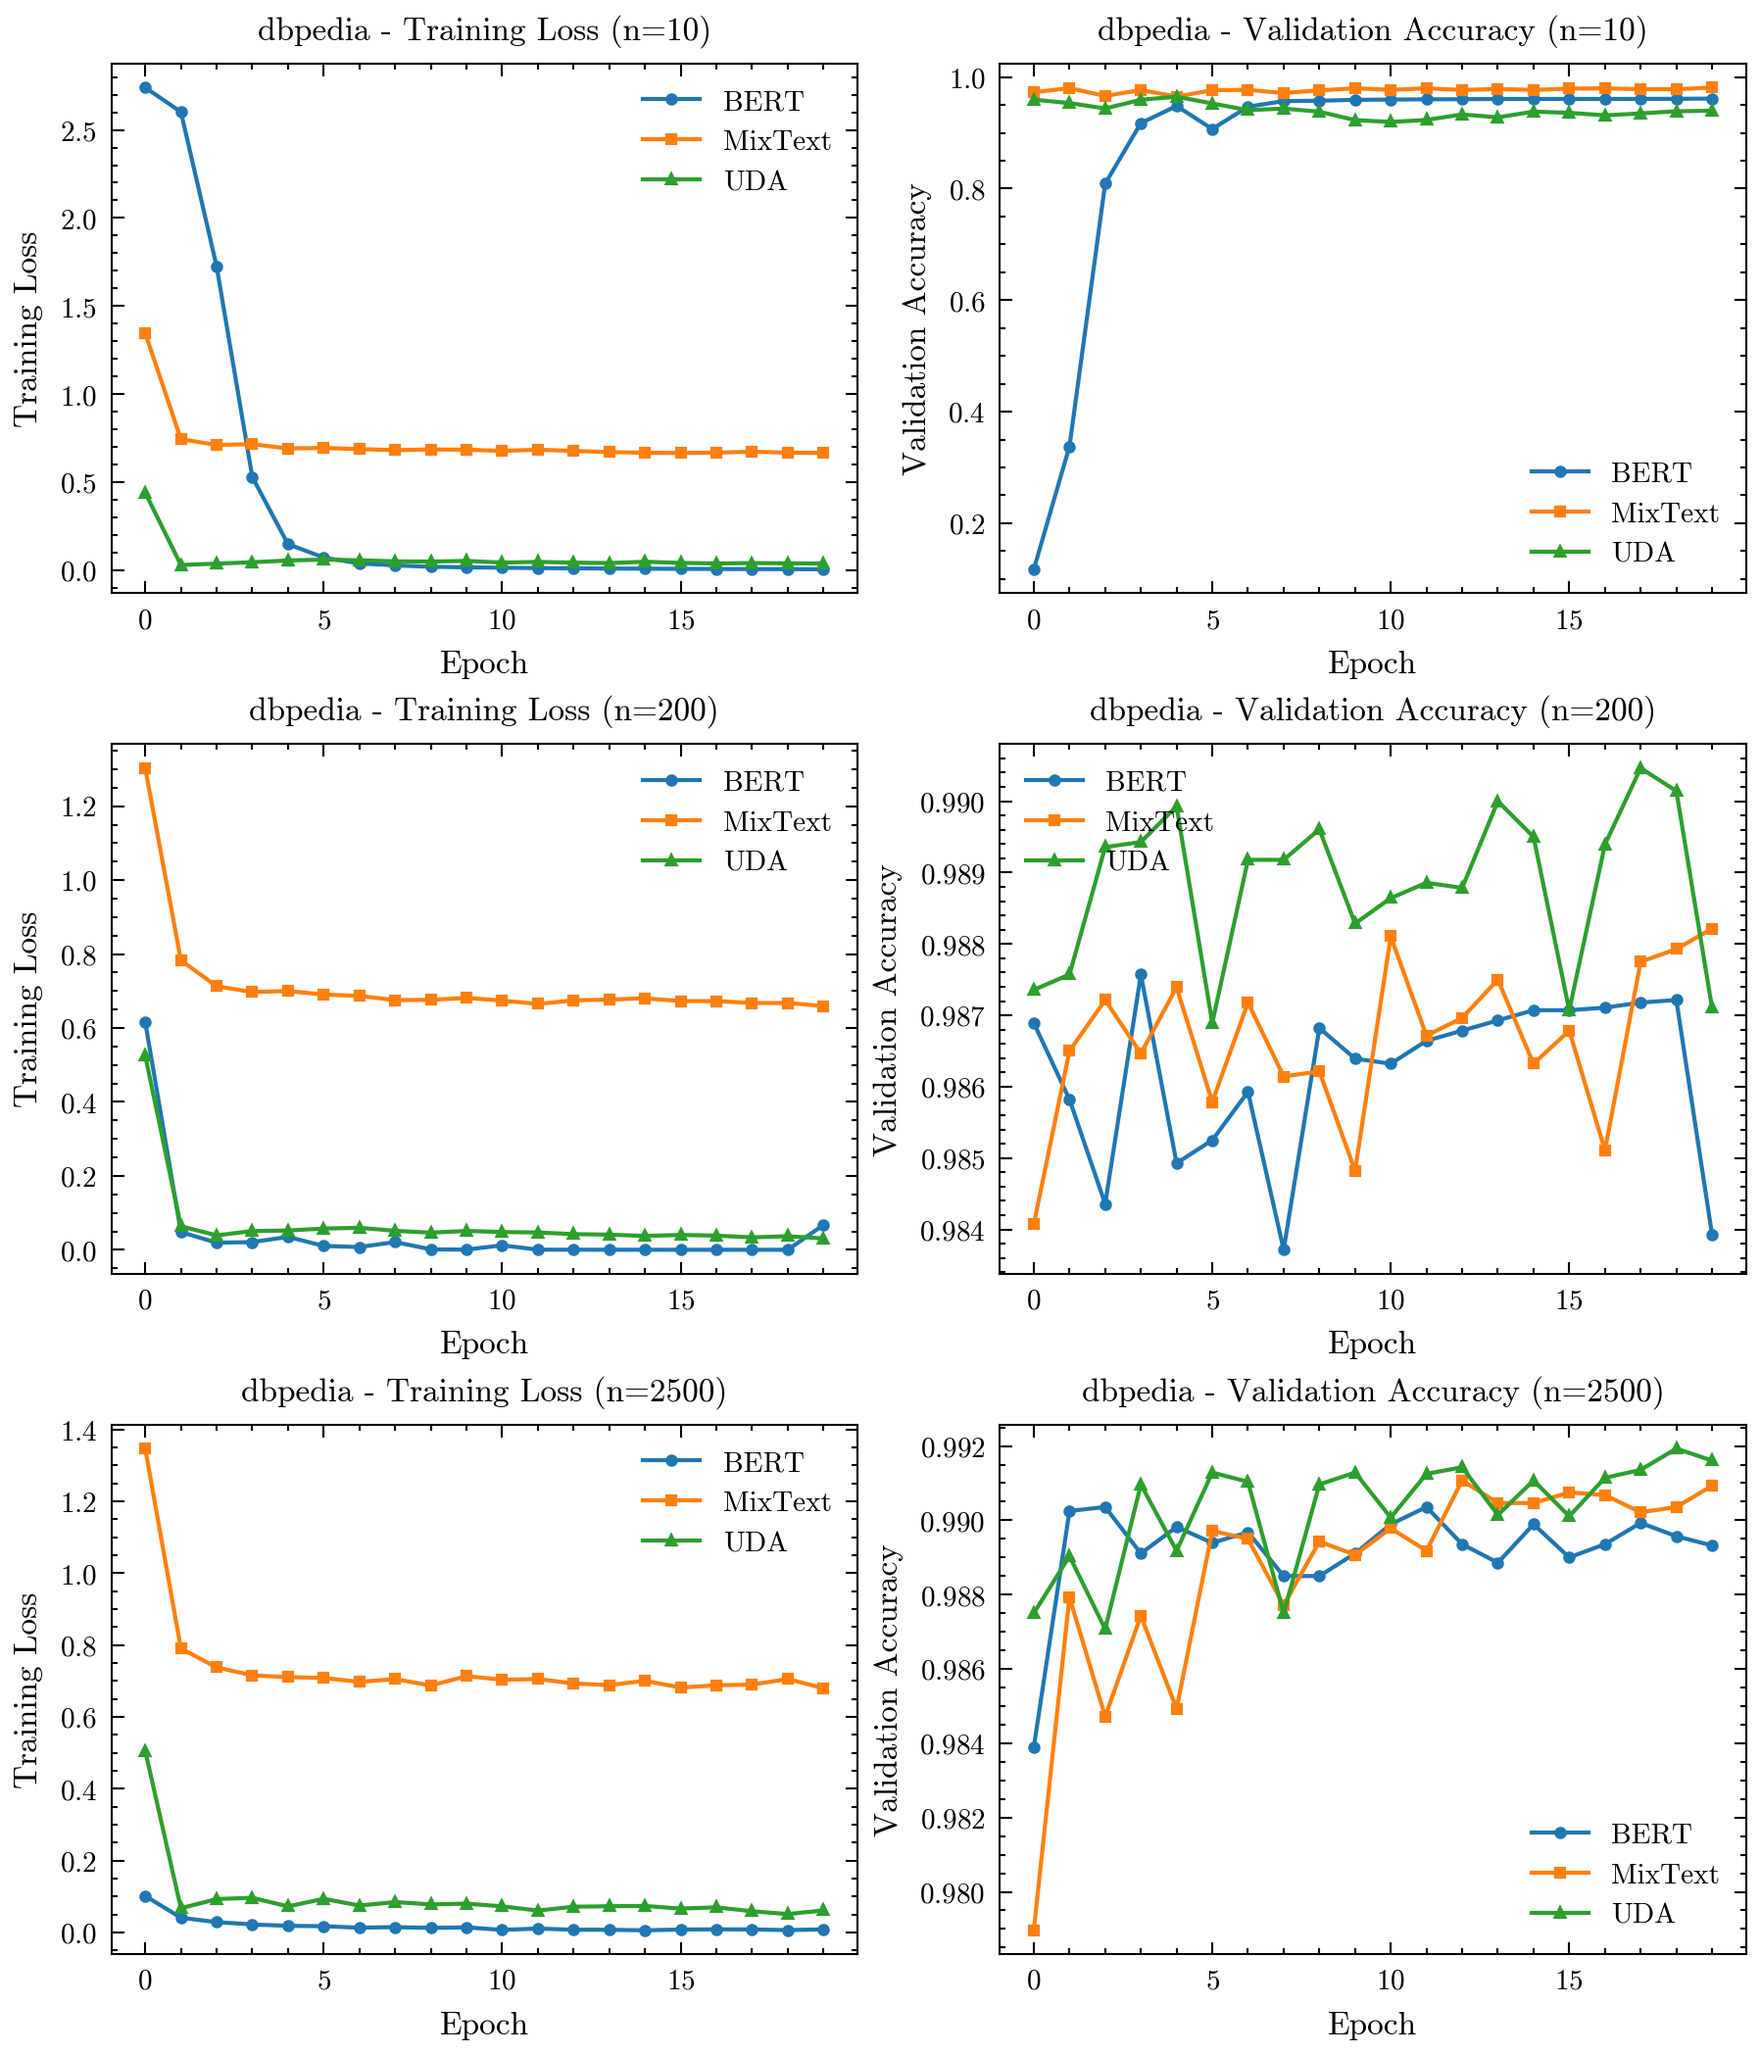
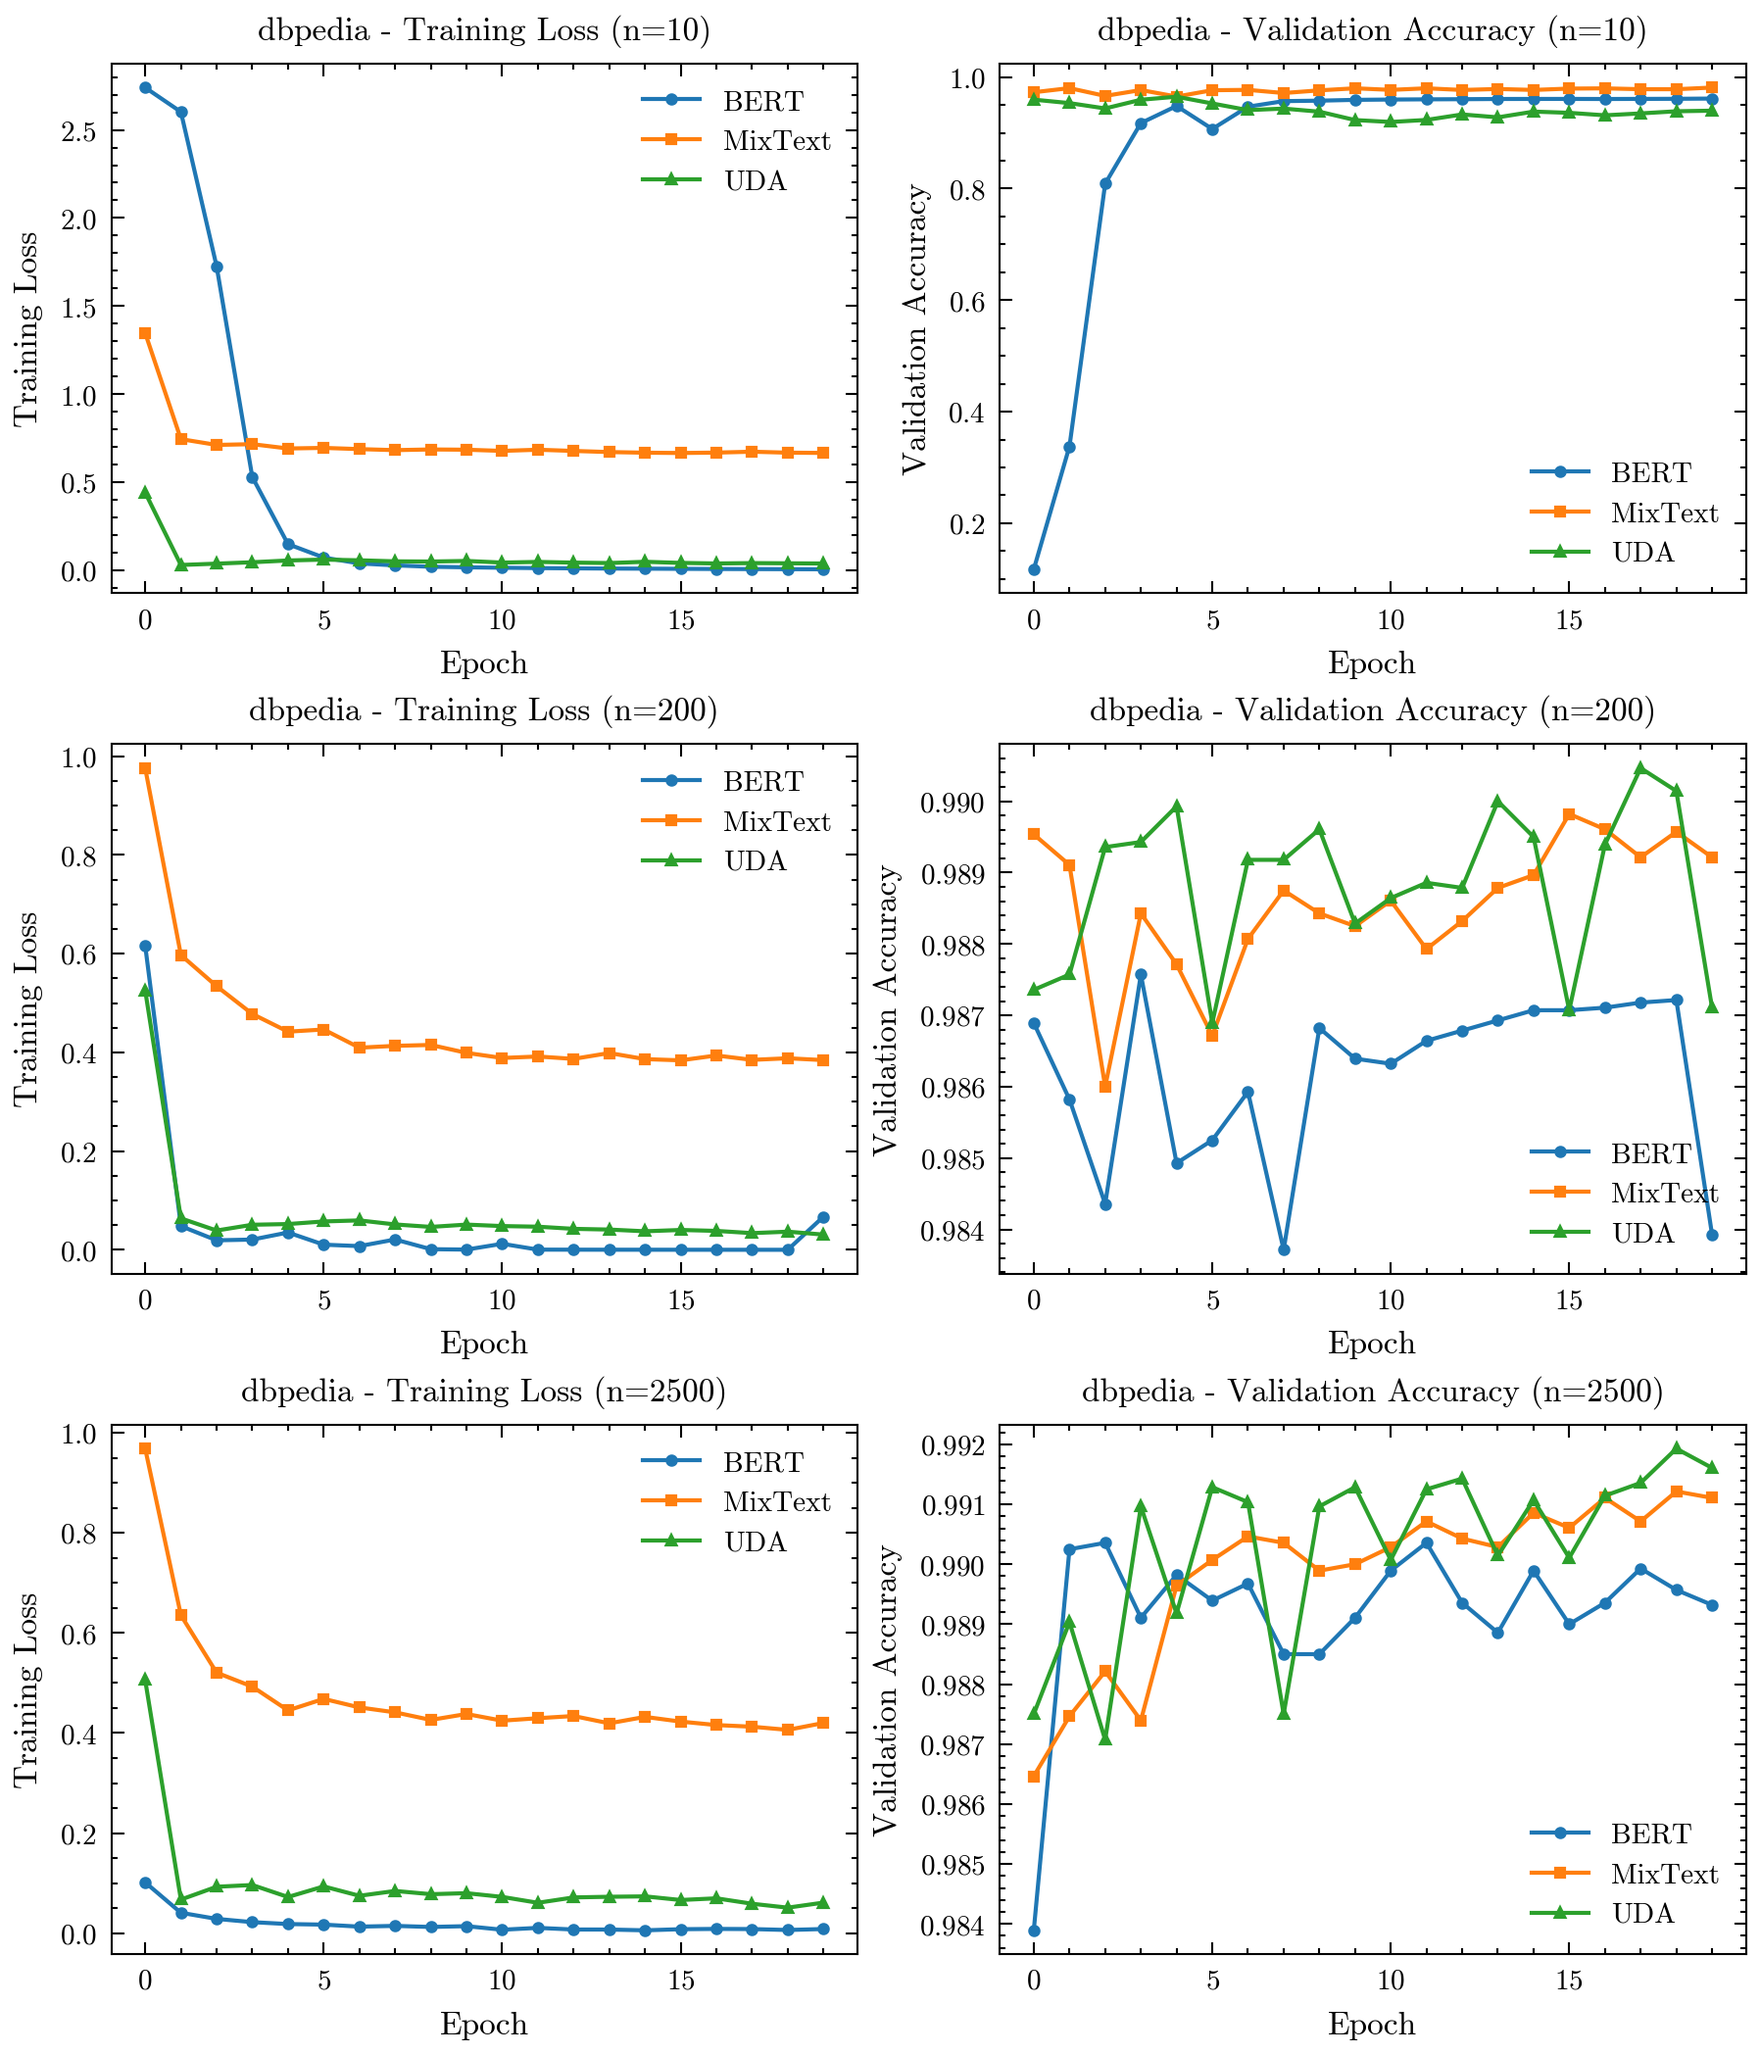
update experiment plot

diff --git a/code/experiment_plot.py b/code/experiment_plot.py
@@ -32,9 +32,9 @@ def find_experiment_dir(base_dir, n_labeled, model_type='bert'):
     else:  # uda
         pattern = f"{base_dir}/exp_*_nlabeled{n_labeled}_unlabeled5000_epochs20_bs8"
     
-    matching_dirs = glob.glob(pattern)
+    matching_dirs = sorted(glob.glob(pattern))
     if matching_dirs:
-        return matching_dirs[0]  # Return the first matching directory
+        return matching_dirs[-1]  # Return the last matching directory
     return None
 
 def plot_training_curves(bert_data, mixtext_data, uda_data, dataset_name, save_dir='plots'):
